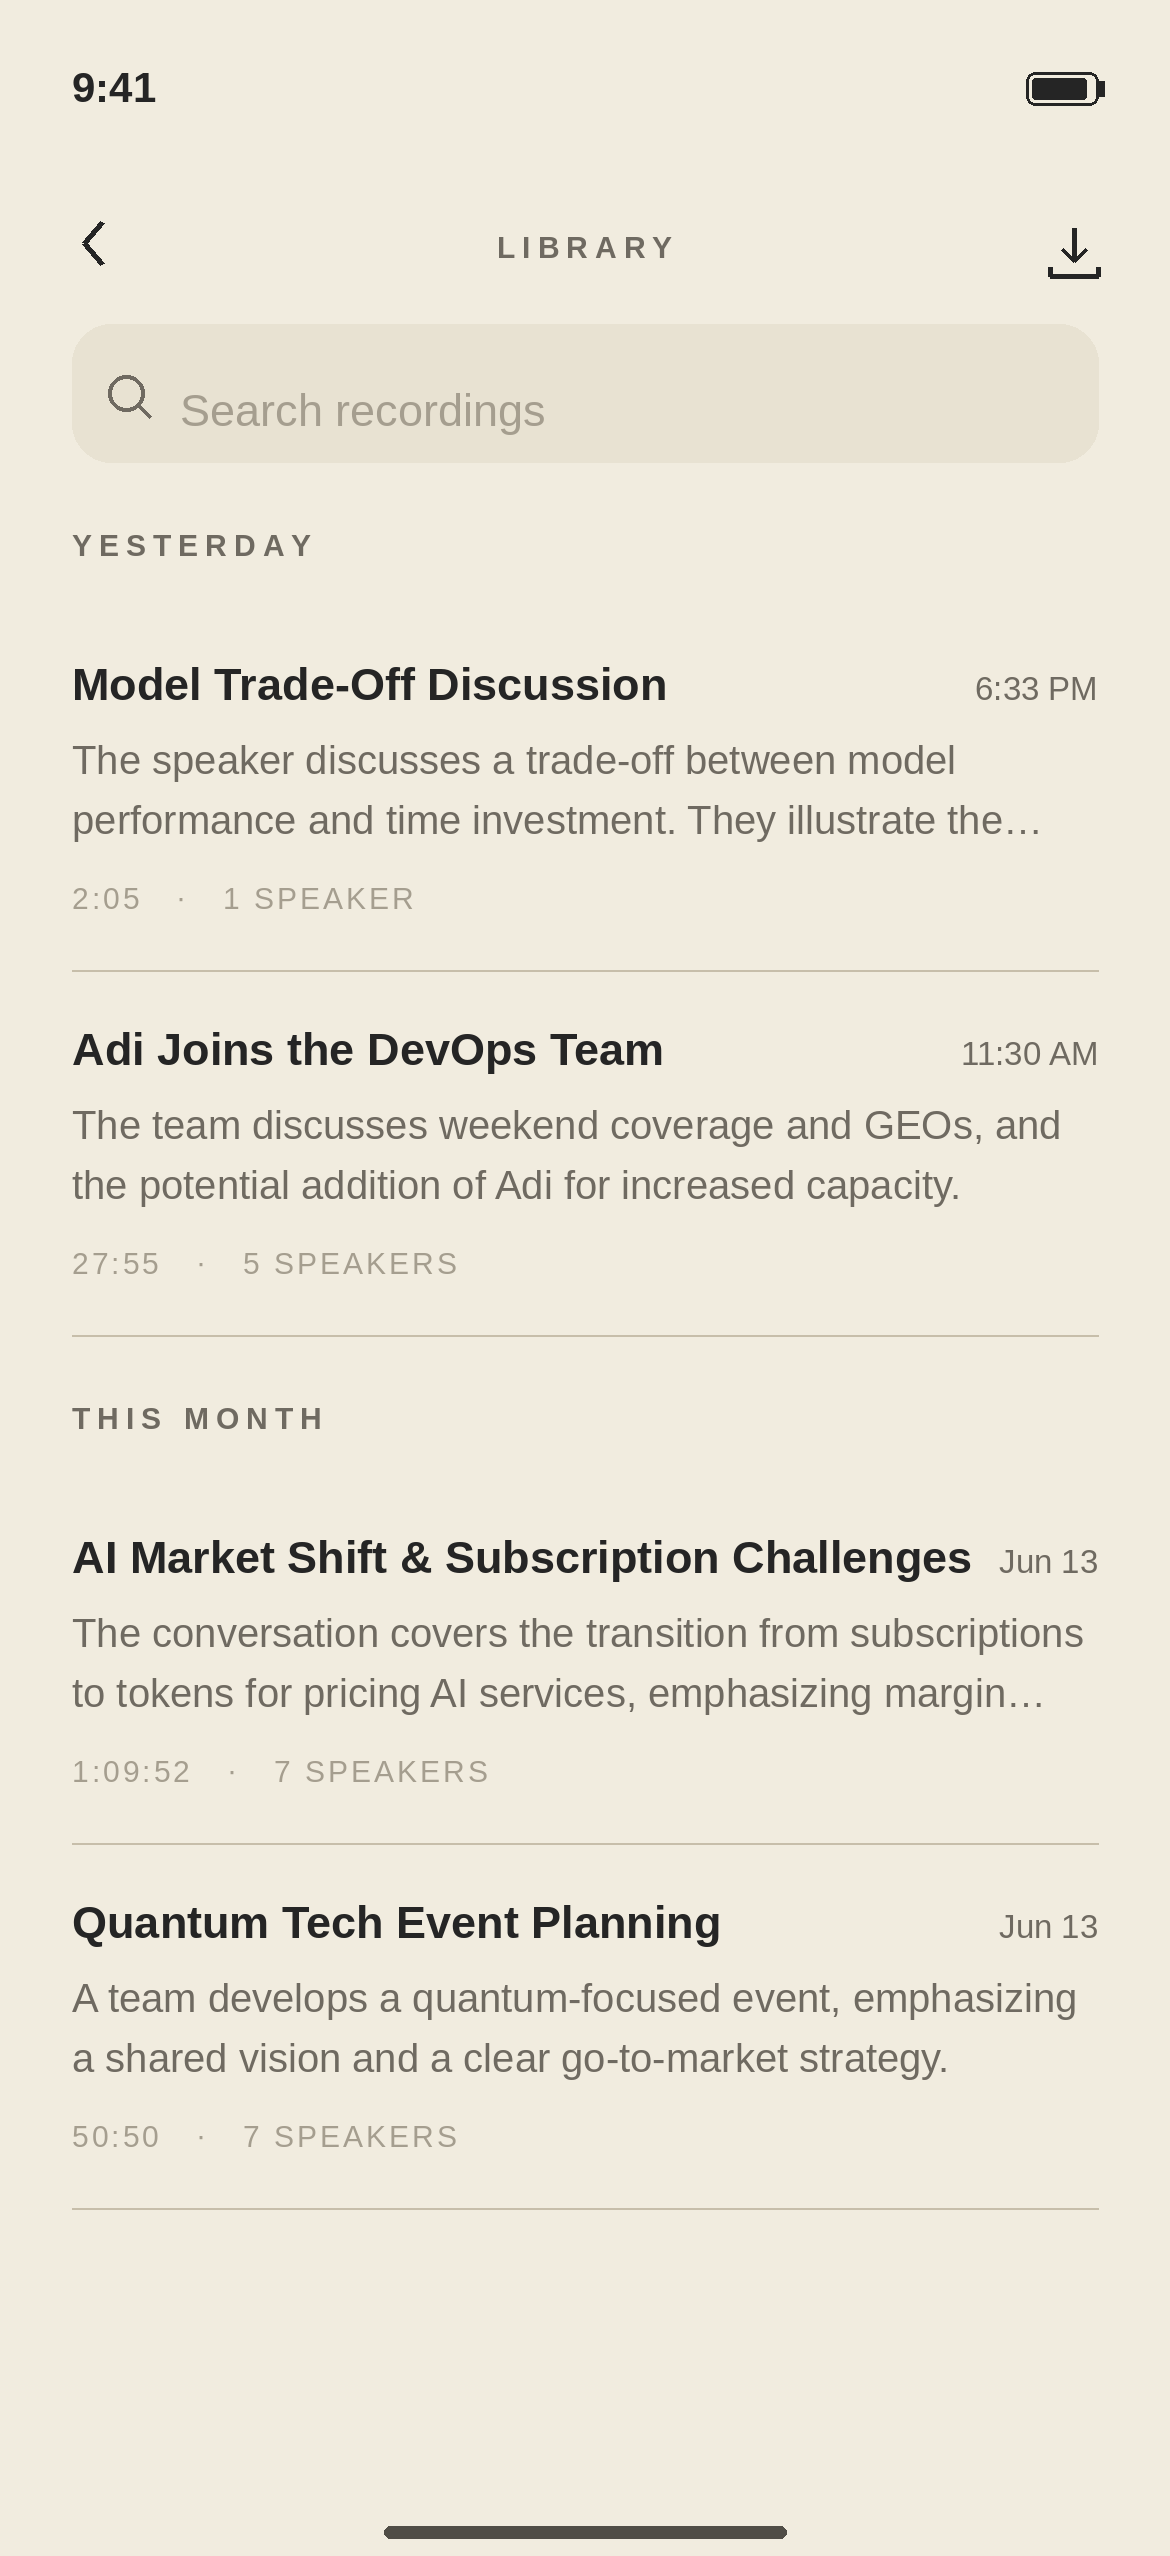
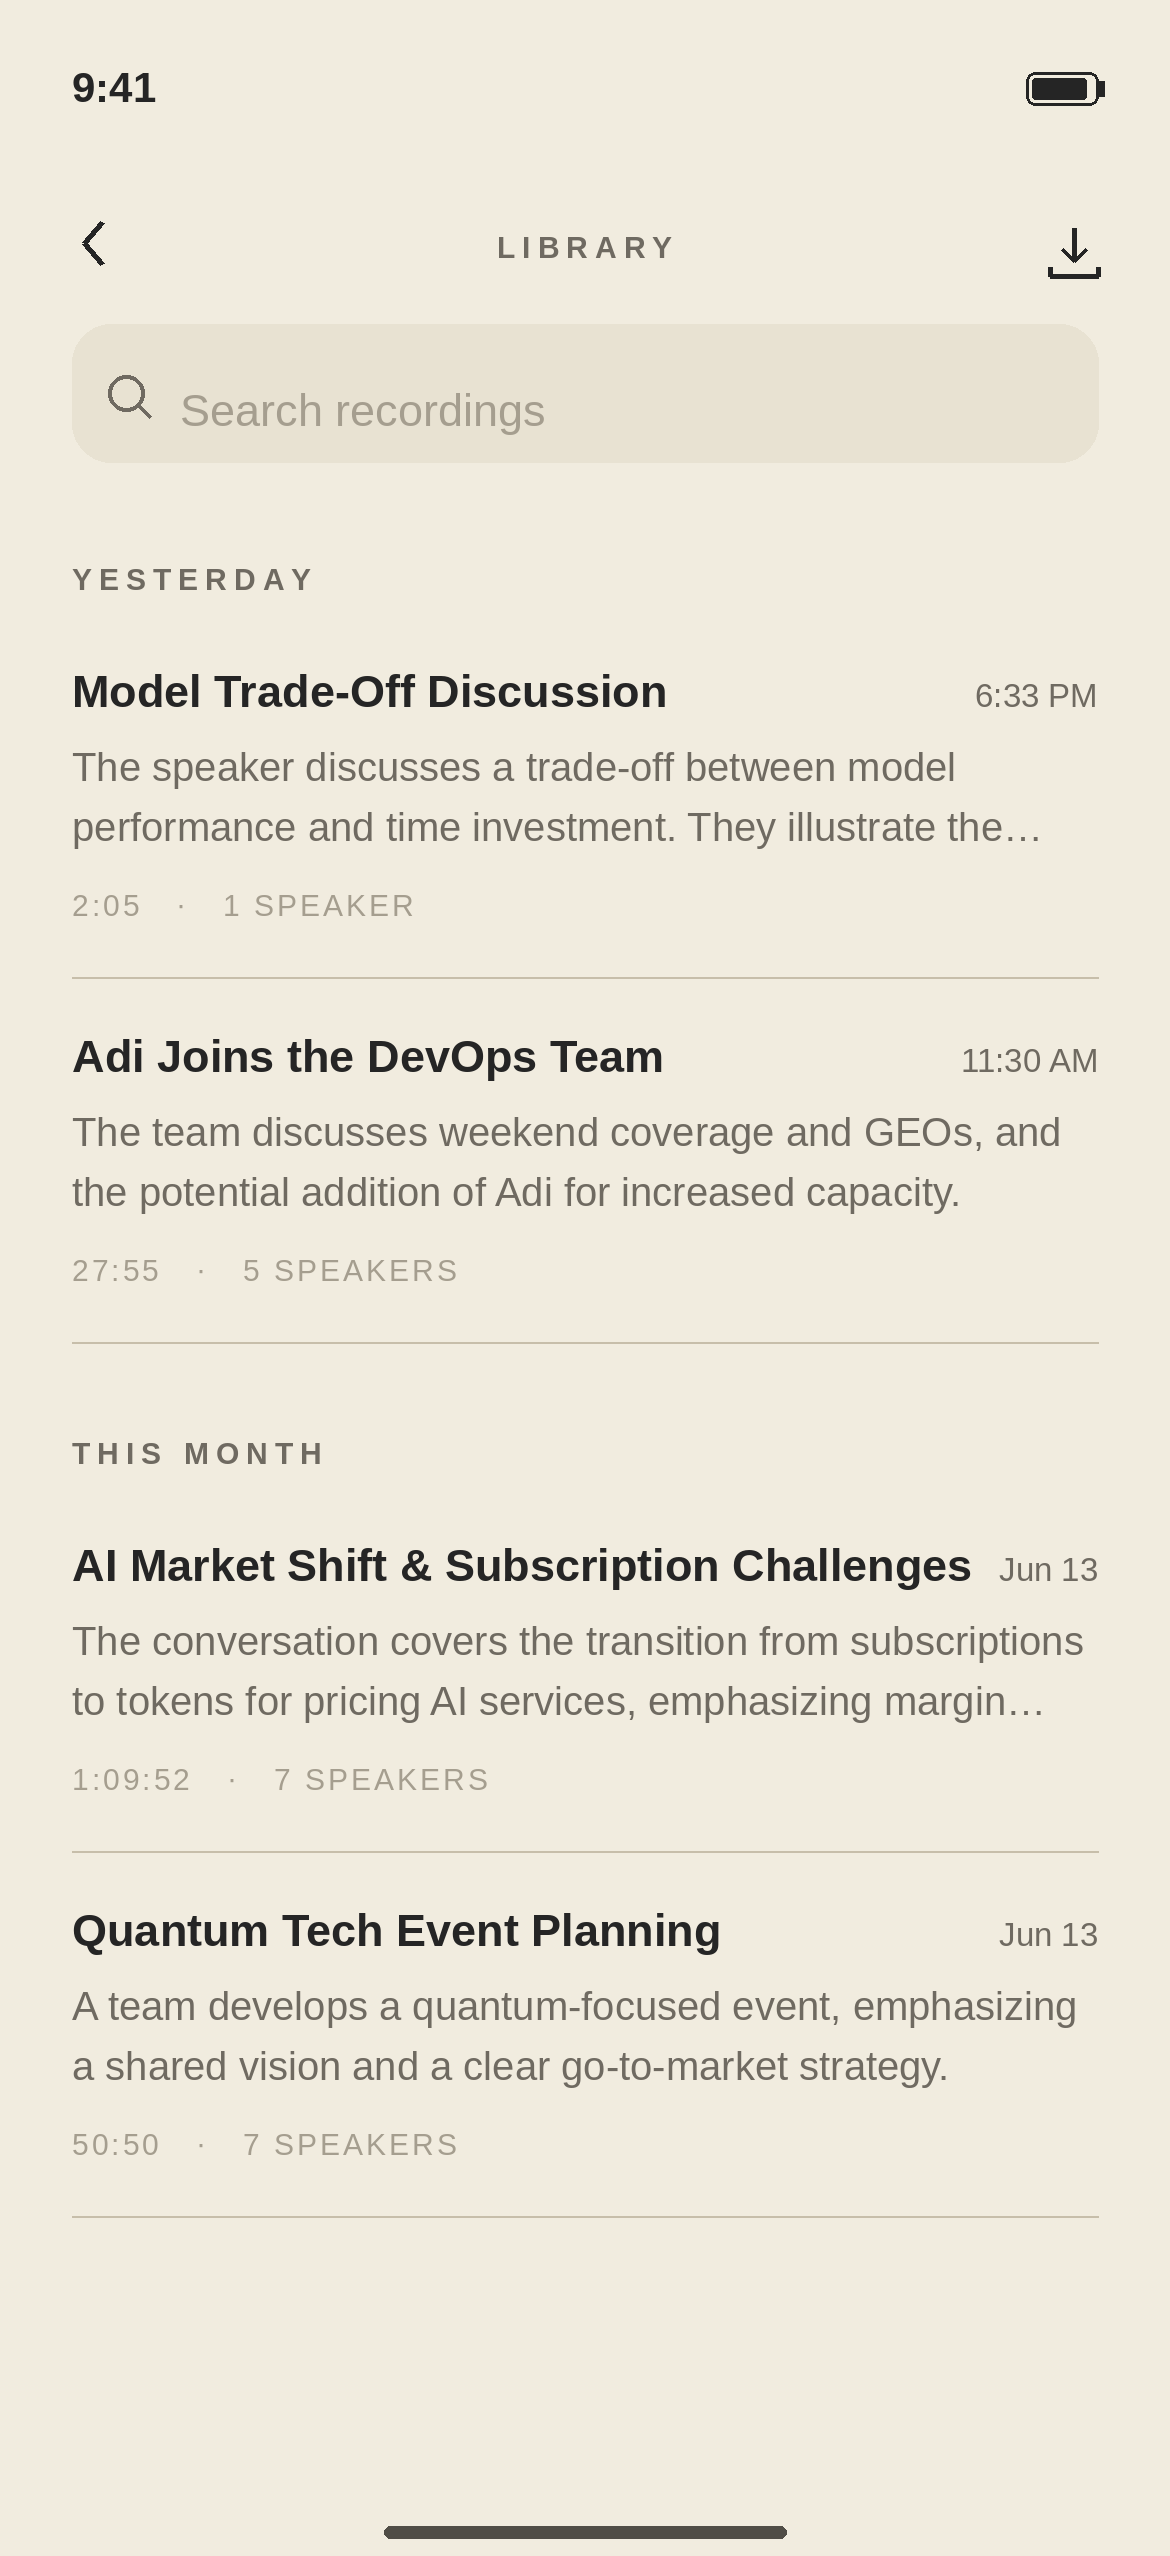
Mockup: optically center section labels on cap-height

diff --git a/mockup/library_type.py b/mockup/library_type.py
@@ -102,16 +102,21 @@ sm_a, sm_d = f_search.getmetrics()
 d.text((L + u(36), my + sm_a // 2 - u(1)), "Search recordings", font=f_search, fill=FAINT, anchor="lm")
 
 # ---------- helpers for list ----------
-def section(y, text):
-    a, dd = f_label.getmetrics()
-    tracked(L, y + a, text, f_label, SECOND, 2.4)
-    return y + a + dd
+def section(y_top, text, band=u(50)):
+    # Optically center the CAP box (not the baseline line-box) within the header band,
+    # so the all-caps label reads as vertically centered instead of riding too high.
+    trial = u(1000)
+    bbox = d.textbbox((L, trial), text, font=f_label, anchor="ls")
+    cap_h = trial - bbox[1]                        # cap height (no descenders in caps)
+    baseline = round(y_top + band / 2 + cap_h / 2)
+    tracked(L, baseline, text, f_label, SECOND, 2.4)
+    return y_top + band
 
 def hairline(y):
     d.line([(L, y), (R, y)], fill=DIVIDER, width=max(1, u(0.7)))
 
-def row(y, title, date, preview, meta):
-    y += u(18)                                    # top padding
+def row(y, title, date, preview, meta, top_pad=u(18)):
+    y += top_pad                                   # top padding
     ta, td = f_title.getmetrics()
     base = y + ta
     d.text((L, base), title, font=f_title, fill=FG, anchor="ls")
@@ -129,20 +134,20 @@ def row(y, title, date, preview, meta):
     return y
 
 # ---------- content ----------
-y = u(176)
-y = section(y, "YESTERDAY"); y += u(14)
+y = u(168)
+y = section(y, "YESTERDAY")
 y = row(y, "Model Trade-Off Discussion", "6:33 PM",
         "The speaker discusses a trade-off between model performance and time investment. They illustrate the cost of over-engineering.",
-        "2:05   ·   1 SPEAKER")
+        "2:05   ·   1 SPEAKER", top_pad=u(4))
 y = row(y, "Adi Joins the DevOps Team", "11:30 AM",
         "The team discusses weekend coverage and GEOs, and the potential addition of Adi for increased capacity.",
         "27:55   ·   5 SPEAKERS")
 
-y += u(22)
-y = section(y, "THIS MONTH"); y += u(14)
+y += u(12)
+y = section(y, "THIS MONTH")
 y = row(y, "AI Market Shift & Subscription Challenges", "Jun 13",
         "The conversation covers the transition from subscriptions to tokens for pricing AI services, emphasizing margin pressure.",
-        "1:09:52   ·   7 SPEAKERS")
+        "1:09:52   ·   7 SPEAKERS", top_pad=u(4))
 y = row(y, "Quantum Tech Event Planning", "Jun 13",
         "A team develops a quantum-focused event, emphasizing a shared vision and a clear go-to-market strategy.",
         "50:50   ·   7 SPEAKERS")
